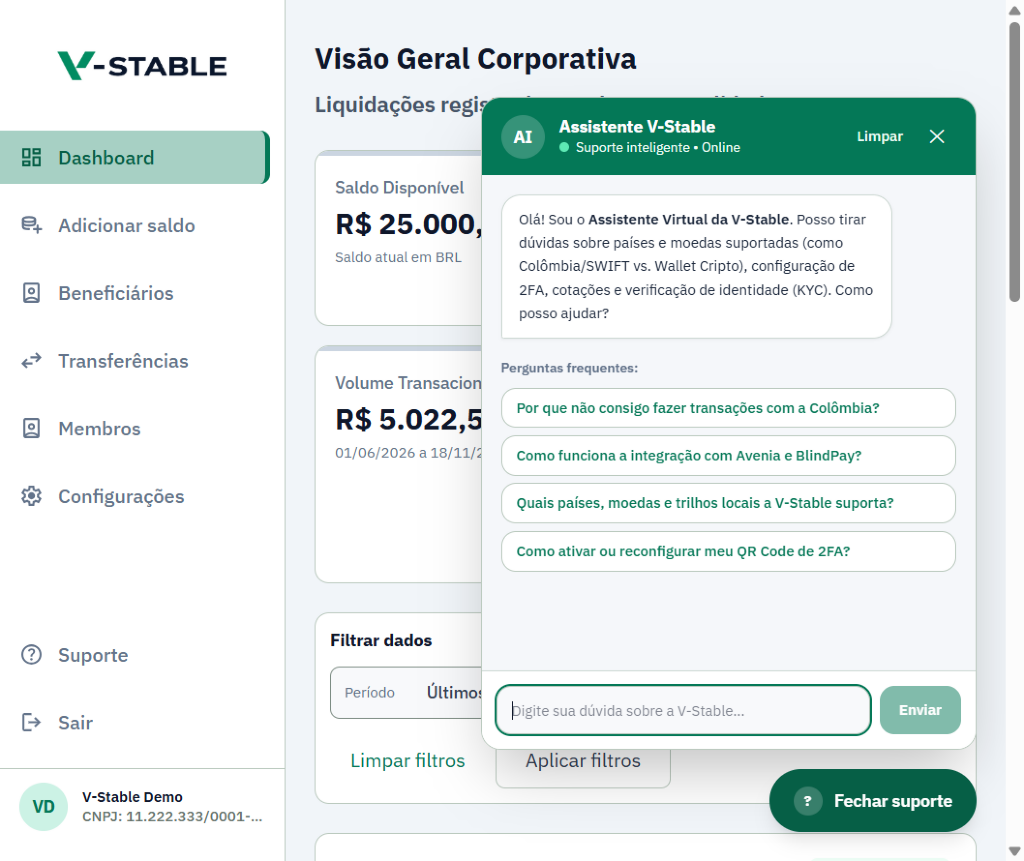
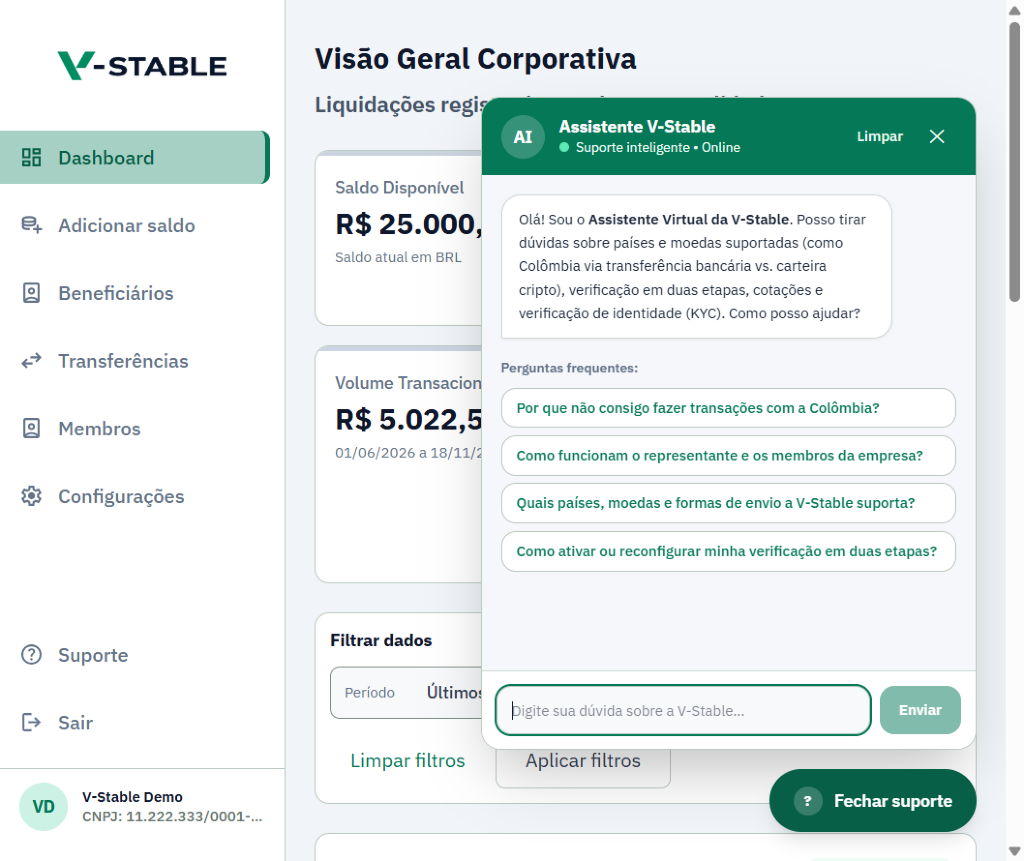
docs(chatbot): abstract user roles and update chatbot screenshots

diff --git a/platform/SUPPORT_CHATBOT.md b/platform/SUPPORT_CHATBOT.md
@@ -1,6 +1,6 @@
 # Assistente Virtual de Suporte (Chatbot IA)
 
-Este documento descreve a arquitetura, o escopo funcional, os limites operacionais, os guardrails de segurança e usabilidade (Heurísticas de Nielsen) e a estratégia de resiliência com e sem API externa do **Assistente Virtual de Suporte da V-Stable**.
+Este documento descreve a arquitetura interna, o escopo funcional voltado ao usuário final, os limites explícitos, os guardrails de segurança, privacidade e abstração, as Heurísticas de Nielsen aplicadas no frontend e a estratégia de resiliência com e sem API externa do **Assistente Virtual de Suporte da V-Stable**.
 
 ---
 
@@ -15,8 +15,8 @@ SupportChatWidget (React)
               └─> SupportChatController
                     └─> SupportChatService
                           ├─ Rate limit deslizante (15 req/min -> HTTP 423 Locked)
-                          ├─ Contexto seguro Zero-PII (buildSafeUserContextSummary)
-                          └─ System prompt de domínio (buildSystemPrompt)
+                          ├─ Contexto seguro Zero-PII e perfis abstratos (buildSafeUserContextSummary)
+                          └─ System prompt com regra de abstração técnica (buildSystemPrompt)
                                 └─> SupportChatGateway (SupportChatClient)
                                       ├─ 1. Gemini (AI_SUPPORT_PROVIDER=gemini + fallback de modelos)
                                       ├─ 2. DeepSeek (AI_SUPPORT_PROVIDER=deepseek | auto com sk-)
@@ -27,10 +27,10 @@ SupportChatWidget (React)
 
 | Camada | Arquivo / Símbolo | Responsabilidade |
 |---|---|---|
-| **Frontend (UI)** | `SupportChatWidget` (`src/features/support/components/SupportChatWidget.tsx`) | Widget flutuante acessível (`Esc` fecha o painel), envio via formulário ou *chips* de perguntas frequentes, contagem preventiva de rate limit, timer regressivo ao lado do botão `Enviar`, botão `Limpar` com aborto de requisição pendente e renderização segura sem `dangerouslySetInnerHTML`. |
+| **Frontend (UI)** | `SupportChatWidget` (`src/features/support/components/SupportChatWidget.tsx`) | Widget flutuante acessível (`Esc` fecha o painel), boas-vindas e *chips* de perguntas frequentes em linguagem acessível, contagem preventiva de rate limit (`evaluateClientRateLimit`), timer regressivo ao lado do botão `Enviar`, botão `Limpar` com aborto de requisição pendente e renderização segura sem `dangerouslySetInnerHTML`. |
 | **Frontend (API)** | `sendSupportChatMessage` (`src/features/support/api/supportChat.ts`) | Chamada `POST /v1/support/chat` com timeout de `20.000 ms` via `AbortController`, mapeamento de `HTTP 423` para `SupportChatRateLimitError` com extração dos segundos restantes (`parseRetryAfterSeconds`) e tratamento de `HTTP 400`. |
 | **Controller** | `SupportChatController` (`POST /v1/support/chat`) | Exige `Authentication` válida (retorna `401 Unauthorized` quando ausente), valida `@Valid @RequestBody SupportChatRequestDTO` e delega ao serviço. |
-| **Service** | `SupportChatService` | Aplica janela deslizante de rate limit por usuário (`15` req/min), gera o resumo seguro de sessão (`buildSafeUserContextSummary`), injeta as regras de negócio e segurança (`buildSystemPrompt`) e retorna `SupportChatResponseDTO` com `reply`, `provider`, `suggestedQuestions` e `timestamp`. |
+| **Service** | `SupportChatService` | Aplica janela deslizante de rate limit por usuário (`15` req/min), gera o resumo seguro com rótulos abstratos (`buildSafeUserContextSummary` + `describeCompanyRole`), injeta regras de negócio e proibição de detalhes técnicos (`buildSystemPrompt`) e retorna `SupportChatResponseDTO` com `reply`, `provider`, `suggestedQuestions` e `timestamp`. |
 | **Gateway** | `SupportChatGateway` | Interface de desacoplamento com o registro `SupportChatGatewayResult(String reply, String provider)`. |
 | **Client & Config** | `SupportChatClient` e `SupportChatProperties` (`ai.support.*`) | Executa a cadeia de provedores (Gemini -> DeepSeek -> Assistente Local Determinístico `vstable-assistant`), normaliza alternância de turnos para o Gemini e aplica temperatura/teto de tokens conservadores. |
 
@@ -40,9 +40,9 @@ SupportChatWidget (React)
   - `message` (`String`, obrigatório, `@NotBlank`, `@Size(max = 500)`).
   - `history` (`List<SupportChatMessageDTO>`, opcional, `@Valid`, `@Size(max = 10)`), onde cada item exige `role` igual a `"user"` ou `"assistant"` (`@Pattern(regexp = "user|assistant")`) e `content` não vazio até `4000` caracteres (`@Size(max = 4000)`).
 - **Response (`SupportChatResponseDTO`):**
-  - `reply`: texto em Markdown simples retornado pelo provedor ativo.
+  - `reply`: texto em Markdown simples retornado pelo provedor ativo, em linguagem de negócio acessível.
   - `provider`: identificador do provedor que respondeu (`"gemini"`, `"deepseek"` ou `"vstable-assistant"`).
-  - `suggestedQuestions`: lista padrão de perguntas frequentes (`DEFAULT_SUGGESTIONS`).
+  - `suggestedQuestions`: lista padrão de perguntas frequentes em linguagem não técnica (`DEFAULT_SUGGESTIONS`).
   - `timestamp`: instante da resposta (`OffsetDateTime`).
 - **Códigos HTTP:** `200 OK`, `400 Bad Request` (`VALIDATION_ERROR`), `401 Unauthorized` e `423 Locked` (`ACCOUNT_LOCKED`, por excesso de requisições no rate limit).
 
@@ -50,48 +50,51 @@ SupportChatWidget (React)
 
 ## 2. O que o Chatbot é Capaz de Fazer (Escopo Funcional)
 
-O chatbot orienta usuários e administradores sobre os seguintes fluxos reais da plataforma V-Stable:
+O chatbot orienta usuários e administradores em linguagem de negócio acessível — sem expor termos técnicos internos — sobre os seguintes fluxos da plataforma V-Stable:
 
-1. **Arquitetura multi-provedor e orquestração da melhor cotação:**
-   - Explica a integração institucional entre **Avenia** (*on-ramp* via PIX em BRL, emissão/trânsito em stablecoins e liquidação *on-chain*/SWIFT) e **BlindPay** (*off-ramp* bancário em moeda local via parceiros como JPMorgan, Citi e Bitso).
-   - Detalha o funcionamento do `QuoteOrchestratorService`, que consulta provedores elegíveis em paralelo (com timeout configurável via `quotes.provider-timeout`, padrão `10s`) para entregar a **Melhor Cotação** (*Best Quote*), exibindo taxas de rede, *spread* e IOF com trava de preço.
+1. **Estrutura multi-provedor e busca pela Melhor Cotação:**
+   - Explica que a V-Stable opera com **provedores parceiros regulados de liquidez e pagamento**.
+   - Detalha que a plataforma realiza busca automática pela **Melhor Cotação** em tempo real entre múltiplos provedores, exibindo taxas, *spread* e IOF com total transparência e trava garantida de preço.
 
 2. **Países, moedas e trilhos bancários suportados:**
    - **Estados Unidos (`USD`):** trilhos `ACH` (1 a 2 dias úteis), `Wire` (mesmo dia), `RTP` (*Real-Time Payments* em minutos) e `FedNow`.
    - **União Europeia / Zona do Euro (`EUR`):** `SEPA` e `SEPA Instant`.
    - **Reino Unido (`GBP`):** `Faster Payments` e `BACS`.
-   - **México (`MXN`):** trilho local `SPEI` (instantâneo via integração Bitso, com chave CLABE).
-   - **Argentina (`ARS`):** transferências locais via `CVU`, `CBU` ou `ALIAS` (via Bitso).
+   - **México (`MXN`):** trilho local `SPEI` (instantâneo, utilizando a chave CLABE).
+   - **Argentina (`ARS`):** transferências bancárias locais via `CVU`, `CBU` ou `ALIAS`.
    - **Brasil (`BRL`):** depósitos e retiradas via `PIX`.
-   - **Grade Global SWIFT (16 moedas homologadas em `BeneficiaryValidator.SWIFT_CURRENCIES`):** `USD`, `EUR`, `GBP`, `CAD`, `AUD`, `CHF`, `JPY`, `CNY`, `HKD`, `SGD`, `NZD`, `THB`, `PHP`, `INR`, `KRW` e `IDR`.
+   - **Grade Global SWIFT (16+ moedas internacionais):** `USD`, `EUR`, `GBP`, `CAD`, `AUD`, `CHF`, `JPY`, `CNY`, `HKD`, `SGD`, `NZD`, `THB`, `PHP`, `INR`, `KRW` e `IDR`.
 
 3. **Regra de bloqueio do peso colombiano (`COP`) e alternativas recomendadas:**
-   - Esclarece que transferências bancárias diretas em `COP` estão indisponíveis porque: (a) o trilho `ACH COP` (Bitso/BlindPay) encontra-se em fase final de homologação técnica e regulatória; (b) `COP` não faz parte da grade de 16 moedas SWIFT validada em `BeneficiaryValidator`; e (c) políticas preventivas de PLD-FT/GAFI bloqueiam corredores sem liquidação automatizada homologada.
+   - Esclarece que transferências bancárias diretas em `COP` estão indisponíveis no momento porque: (a) o recebimento bancário local em pesos colombianos ainda está em processo de liberação técnica e regulatória; (b) `COP` não faz parte da grade cambial direta de 16 moedas atendida pelo trilho SWIFT da V-Stable; e (c) políticas preventivas de PLD-FT/GAFI bloqueiam corredores sem liquidação automatizada liberada.
    - Orienta as duas alternativas disponíveis:
-     - **Opção 1 — `Wallet Cripto` (recomendada):** cadastrar o beneficiário na modalidade de carteira Web3 em redes suportadas para receber `USDC` ou `USDT`.
+     - **Opção 1 — `Wallet Cripto` (recomendada):** cadastrar o beneficiário na modalidade de carteira digital em redes suportadas para receber `USDC` ou `USDT`.
      - **Opção 2 — Conta Internacional em `USD` ou `EUR`:** cadastrar o beneficiário recebendo em `USD` (`ACH`/`Wire`/`SWIFT`) ou `EUR` (`SEPA`/`SWIFT`).
 
 4. **Redes blockchain e stablecoins:**
    - **Stablecoins:** `USDC`, `USDT`, `BRLA` e `EURC`.
-   - **Redes blockchain:** `Polygon`, `Celo`, `Ethereum`, `Base`, `Tron`, `Gnosis` e `Moonbeam` (observando que o enum `BlockchainNetwork` no cadastro de carteiras cobre `ethereum`, `polygon`, `celo`, `gnosis`, `moonbeam` e `tron`, enquanto a arquitetura Avenia contempla também `Base`).
+   - **Redes blockchain:** `Polygon`, `Celo`, `Ethereum`, `Base`, `Tron`, `Gnosis` e `Moonbeam`.
 
 5. **Autenticação em Dois Fatores (`2FA / TOTP`):**
-   - Explica a obrigatoriedade do 2FA no login, na ativação de conta e no Passo 3 (*Autenticação*) de transferências.
-   - Orienta a troca de aparelho / novo QR Code em **Configurações > Segurança da Conta**, informando a exigência do código TOTP atual de 6 dígitos (que revoga imediatamente o segredo anterior) e a necessidade de remover o registro antigo no aplicativo autenticador.
-   - Informa o bloqueio temporário de **15 minutos** após **5 tentativas incorretas** (`TwoFactorAuthService`: `MAX_FAILED_ATTEMPTS = 5`, `LOCKOUT_SECONDS = 15 * 60`) e a proteção **anti-replay atômica em PostgreSQL** na tabela `totp_used_steps` (`TotpReplayStore`), que garante uso único por janela de **90 segundos** (passo atual de 30s com tolerância de `±1` passo em `TotpService`) compartilhado entre instâncias Lambda.
+   - Explica a obrigatoriedade do 2FA no login, na ativação de conta e no Passo 3 (*Autenticação*) ao criar transferências.
+   - Orienta a troca de aparelho / novo QR Code em **Configurações > Segurança da Conta**, informando a exigência do código atual de 6 dígitos (que revoga imediatamente o segredo anterior) e a necessidade de remover o registro antigo no aplicativo autenticador.
+   - Informa que cada código de 6 dígitos é de **uso único dentro da sua janela de validade** (não podendo ser reutilizado) e que há bloqueio temporário de **15 minutos** após **5 tentativas incorretas** contra ataques de força bruta.
 
-6. **Onboarding, Termos de Serviço (`ToS`) da BlindPay e KYC Individual / *Liveness*:**
-   - Orienta as etapas de onboarding (cadastro da empresa, representante legal, ativação de 2FA, aceite dos Termos de Serviço `ToS` da BlindPay e envio de documento de identidade + prova de vida *Liveness*), esclarecendo que a situação do cadastro depende do KYC individual e não há exigência local de KYB ou AML da empresa.
-   - Documenta o limite de upload de **3 MB por arquivo** (`spring.servlet.multipart.max-file-size: 3MB` / `BlindPayIndividualKycService.MAX_FILE_BYTES = 3 * 1024 * 1024`) e a possibilidade de **reiniciar/reabrir o KYC** individual quando necessário (`POST /v1/blindpay/kyc/restart`).
+6. **Termos do provedor de pagamento, verificação de identidade (`KYC`) e reabertura:**
+   - Orienta as etapas de cadastro (empresa com CNPJ, representante legal, ativação de 2FA, aceite dos **termos do provedor de pagamento** e Termos de Uso vigentes, além do envio de documento de identidade e prova de vida *Liveness*), esclarecendo que a situação do cadastro depende da verificação individual (sem exigência local de KYB ou AML da empresa).
+   - Informa o limite de envio de **até 3 MB por arquivo** e a possibilidade de **reiniciar/refazer o processo de verificação** quando necessário.
 
-7. **Gestão de membros da empresa, papéis, convites e revogação:**
-   - Explica os três papéis de `CompanyRole`: `OWNER` (gestão completa de membros, convites, alteração de papéis, revogação e operações financeiras), `OPERATOR` (operação de beneficiários, cotações e transferências) e `VIEWER` (somente visualização/leitura).
-   - Orienta o fluxo de convites por link criptografado com aceite obrigatório dos Termos de Uso e Política de Privacidade vigentes (`TERMS_VERSION`), alteração de papel e revogação imediata de vínculo (`MembershipStatus.REMOVED`).
+7. **Gestão de membros, perfis e convites da empresa:**
+   - Explica os perfis de acesso em linguagem orientada ao usuário final:
+     - **Representante:** gestão completa da conta da empresa, envio de convites para membros, alteração de permissões, revogação de acesso e operações financeiras.
+     - **Membro com permissão para operar:** realiza cotações, transferências e gerencia beneficiários.
+     - **Membro com acesso apenas de visualização:** consulta e acompanha informações, sem permissão para operar.
+   - Orienta o fluxo de convites por **link seguro** com aceite obrigatório dos Termos de Uso e Política de Privacidade vigentes, alteração de permissões e revogação imediata de acesso pelo Representante.
 
-8. **Saldo empresarial, créditos simulados, dashboard, comprovante em PDF e conciliação:**
-   - Explica o uso do saldo empresarial em BRL (`companies.available_balance_brl`) para liquidação de transferências e o suporte, em ambientes habilitados (`balance.simulated-deposits.enabled=true`), a créditos simulados protegidos por `Idempotency-Key` (8 a 128 caracteres) com emissão de recibo (`mock_topup_receipts`).
-   - Explica as cotações de referência exibidas no dashboard (`BRL -> USDC` e `BRL -> USDT`, rota `PIX -> POLYGON`, usando `basePrice` sem tarifas, com cache de **2 horas** de TTL em `exchange_rate_snapshots`) e o cálculo de economia estimada (`SavingsEstimator`) frente ao **spread bancário de referência de 4%** (`dashboard.savings.reference-spread-percentage: 4.00`).
-   - Orienta sobre a emissão de **comprovante em PDF** (`TransferReceiptPdfGenerator`) e sobre a rotina de **conciliação automática em segundo plano** (`AveniaTransactionReconciler` consultando tickets pendentes e `TransferExecutionReconciler` retomando execuções BlindPay paradas com idempotência).
+8. **Saldo empresarial em BRL, dashboard, economia estimada e comprovante em PDF:**
+   - Explica o uso do saldo empresarial em BRL para liquidação das transferências da empresa (e, quando habilitado em ambiente de testes/simulação, a possibilidade de adicionar saldo simulado com emissão de recibo).
+   - Explica as cotações de referência exibidas no dashboard (`BRL -> USDC` e `BRL -> USDT`, rota `PIX -> Polygon`, sem tarifas embutidas e com atualização periódica), os filtros de histórico/status e o cálculo de **economia estimada** frente ao **spread bancário de referência de 4%**.
+   - Orienta sobre o download de **comprovante em PDF** das transferências concluídas e o **acompanhamento e atualização automática do status das transferências** até a conclusão.
 
 ---
 
@@ -99,26 +102,43 @@ O chatbot orienta usuários e administradores sobre os seguintes fluxos reais da
 
 Por projeto arquitetural e segurança operacional, o chatbot possui fronteiras estritas:
 
-- **Exclusivamente orientativo e somente leitura:** não cria, aprova, cancela ou executa transferências; não gera cotações operacionais em tempo real; não altera cadastros ou papéis; não gera QR Codes de 2FA; e não cria, regenera ou revoga convites ou vínculos empresariais.
-- **Sem acesso a dados financeiros ou sensíveis:** não consulta nem exibe saldos (`available_balance_brl`), extratos, histórico de transações, CPF, CNPJ, e-mails, senhas, hashes (`password_hash`/`password_salt`), segredos TOTP (`two_factor_secret`) ou tokens de convite (`token_ciphertext`/`token_hash`).
-- **Sem visibilidade entre empresas ou vínculos encerrados:** não acessa dados de outras empresas e não expõe dados empresariais para usuários sem vínculo ou com vínculo `REMOVED` (mesmo quando `companyId` legado ainda exista na entidade do usuário).
+- **Exclusivamente orientativo e somente leitura:** não cria, aprova, cancela ou executa transferências; não gera cotações operacionais em tempo real; não altera cadastros ou permissões; não gera QR Codes de 2FA; e não cria, regenera ou revoga convites ou vínculos empresariais.
+- **Sem acesso a dados financeiros ou sensíveis:** não consulta nem exibe saldos em BRL, extratos, histórico de transações, CPF, CNPJ, e-mails, senhas, hashes, segredos de 2FA ou tokens de convite.
+- **Sem visibilidade entre empresas ou vínculos encerrados:** não acessa dados de outras empresas e não expõe dados empresariais para usuários sem vínculo ou com vínculo encerrado.
+- **Sem exposição de detalhes técnicos internos da aplicação:** não revela nomes internos de perfis de sistema, nomes internos de provedores parceiros ou integrações, classes ou funções de código, variáveis de ambiente ou configuração, cabeçalhos/rotas HTTP, estrutura de banco de dados, mecanismos internos de cache/expiração, controle de concorrência ou chaves de idempotência.
 - **Recusa de uso indevido:** recusa pedidos fora do domínio V-Stable, solicitações de execução de código ou comandos, pedidos de dados de terceiros e tentativas de *prompt injection* para ignorar instruções do sistema.
 
 ---
 
 ## 4. Guardrails de Segurança, Privacidade e Usabilidade (Heurísticas de Nielsen)
 
-### 4.1 Isolamento Multi-Tenant e Zero-PII (`buildSafeUserContextSummary`)
+### 4.1 Isolamento Multi-Tenant, Zero-PII e Abstração de Linguagem
 
-Antes de chamar qualquer provedor externo ou o assistente local, `SupportChatService.buildSafeUserContextSummary` constrói um resumo mínimo de sessão com **Zero-PII**:
+Antes de chamar qualquer provedor externo ou o assistente local, `SupportChatService` aplica três camadas de proteção sobre o contexto e o discurso gerado:
 
-- **Para `UserEntity`:**
-  - Resolve a empresa exclusivamente via `activeMembershipCompanyId(user)`, que exige `user.getMembership() != null` e `membership.getStatus() == MembershipStatus.ACTIVE`.
-  - Vínculos `REMOVED`, ausência de vínculo ou o campo legado `user.getCompanyId()` são ignorados e resultam na não consulta ao `CompanyRepository`, enviando apenas: `**Status atual da sua conta:** 2FA = Ativo|Pendente de ativação | Empresa ainda não vinculada.`
-  - Com vínculo `ACTIVE` e empresa localizada, envia somente o nome fantasia (`tradeName`) ou razão social (`legalName`), o papel (`Papel = OWNER|OPERATOR|VIEWER`) e o booleano do 2FA (`2FA = Ativo|Pendente de ativação`).
-- **Para `AdministratorEntity`:**
-  - Envia apenas `**Status da sua sessão (Administrador):** 2FA = Ativo|Inativo.`
-- **Dados nunca enviados ao prompt ou provedores de IA:** nome completo, e-mail, CPF, CNPJ, telefone, endereço, UUIDs internos (`userId`, `companyId`, `membershipId`), saldo `available_balance_brl`, hashes/salts de senha, segredos TOTP e tokens de convite.
+1. **Isolamento Multi-Tenant e Zero-PII (`buildSafeUserContextSummary`):**
+   - Para `UserEntity`, resolve a empresa exclusivamente via `activeMembershipCompanyId(user)`, que exige `user.getMembership() != null` e `membership.getStatus() == MembershipStatus.ACTIVE`.
+   - Vínculos `REMOVED`, ausência de vínculo ou o campo legado `user.getCompanyId()` são ignorados e não consultam o `CompanyRepository`, enviando apenas: `**Status atual da sua conta:** 2FA = Ativo|Pendente de ativação | Empresa ainda não vinculada.`
+   - Com vínculo `ACTIVE` e empresa localizada, envia somente o nome fantasia (`tradeName`) ou razão social (`legalName`), o rótulo abstrato de perfil e o booleano do 2FA (`2FA = Ativo|Pendente de ativação`).
+   - Para `AdministratorEntity`, envia apenas `**Status da sua sessão (Administrador):** 2FA = Ativo|Inativo.`
+   - **Dados nunca enviados ao prompt ou provedores de IA:** nome completo, e-mail, CPF, CNPJ, telefone, endereço, UUIDs internos (`userId`, `companyId`, `membershipId`), saldo financeiro, hashes/salts de senha, segredos TOTP e tokens de convite.
+
+2. **Mapeamento Abstrato de Perfis de Acesso (`describeCompanyRole`):**
+   - O resumo de contexto enviado à IA mapeia os perfis internos de acesso (`CompanyRole`) para rótulos abstratos voltados ao usuário final, **nunca expondo identificadores internos de roles (`OWNER`, `OPERATOR`, `VIEWER`)**:
+
+| Role Interna (`CompanyRole`) | Rótulo Abstrato Enviado à IA e Exibido ao Usuário |
+|---|---|
+| `OWNER` | `Representante` |
+| `OPERATOR` | `Membro com permissão para operar` |
+| `VIEWER` | `Membro com acesso apenas de visualização` |
+| `null` (fallback) | `Membro` |
+
+   - Exemplo de contexto gerado: `**Status atual da sua conta (V-Stable Demo):** Perfil = Representante | 2FA = Ativo.`
+
+3. **Proibição Explícita de Termos Técnicos Internos (Prompt + Fallback Offline):**
+   - A Regra 5 de `SupportChatService.buildSystemPrompt` e as respostas embarcadas de `SupportChatClient.generateBuiltInKnowledgeReply` proíbem explicitamente citar termos técnicos internos da aplicação: classes ou funções de código, chaves e variáveis internas, cabeçalhos HTTP, rotas de API, nomes de tabelas, parâmetros de cache/TTL, preços internos de referência, janelas técnicas de expiração, controle de concorrência, nomes internos de provedores/integrações ou identificadores internos de perfis.
+   - O assistente responde sempre em **linguagem de negócio acessível** (ex.: `"Representante"`, `"membros que podem operar"`, `"membros que podem apenas visualizar"` e `"provedores parceiros regulados de liquidez e pagamento"`).
+   - Esse contrato de abstração é validado continuamente por testes automatizados no backend (`assertNoForbiddenTechnicalTerms` em `SupportChatServiceTest` e `SupportChatClientTest`) e pelas sugestões iniciais e mensagem de boas-vindas no frontend (`SupportChatWidget.tsx`).
 
 ### 4.2 Validação de Entrada e Controles de Geração
 
@@ -143,7 +163,7 @@ O helper `renderFormattedText` em `SupportChatWidget.tsx` **não usa `dangerousl
      - Exibe um **timer regressivo** (`data-testid="support-chat-cooldown-timer"`, `role="timer"`, `aria-live="polite"`) mostrando `{cooldownSeconds}s` diretamente ao lado do botão `Enviar` durante todo o período de espera.
      - Exibe também o indicador de processamento `"Analisando sua dúvida..."` (`role="status"`) durante chamadas ativas e o status `"Suporte inteligente • Online"` no cabeçalho.
   2. **Heurística #5 — Prevenção de erros:**
-     - O widget mantém contagem preventiva local (`sentTimestampsRef`) com os mesmos `15` envios em janela deslizante de `60.000 ms` (`SUPPORT_CHAT_MAX_REQUESTS_PER_MINUTE = 15`, `SUPPORT_CHAT_RATE_LIMIT_WINDOW_MS = 60_000`), ativando o cooldown preventivamente antes de disparar requisição excedente ao servidor.
+     - O widget executa `evaluateClientRateLimit` sobre `sentTimestampsRef` com os mesmos `15` envios em janela deslizante de `60.000 ms` (`SUPPORT_CHAT_MAX_REQUESTS_PER_MINUTE = 15`, `SUPPORT_CHAT_RATE_LIMIT_WINDOW_MS = 60_000`), ativando o cooldown preventivamente antes de disparar requisição excedente ao servidor.
      - Enquanto `cooldownSeconds > 0`, desabilita o botão `Enviar` (`disabled={loading || cooldownSeconds > 0 || !input.trim()}`) e os botões de perguntas frequentes (`disabled={cooldownSeconds > 0}`), impedindo novos envios até o término da contagem.
   3. **Heurística #9 — Ajudar usuários a reconhecer, diagnosticar e recuperar-se de erros:**
      - Quando uma resposta `HTTP 423` chega do backend, `parseRetryAfterSeconds` extrai a quantidade de segundos da mensagem (ou usa `error.retryAfterSeconds` / fallback de `60s`) e lança `SupportChatRateLimitError`.
@@ -162,7 +182,7 @@ O `SupportChatClient` implementa uma cadeia de resiliência em 3 níveis que imp
 |---|---|---|---|
 | **1. Primário** | `gemini` | `AI_SUPPORT_API_KEY` preenchida e `AI_SUPPORT_PROVIDER` igual a `gemini` (padrão) ou `auto` (quando a chave não inicia com `sk-`). | `POST {geminiBaseUrl}/v1beta/models/{model}:generateContent` com header `x-goog-api-key`. Tenta o modelo configurado em `AI_SUPPORT_GEMINI_MODEL` (padrão `gemini-flash-lite-latest`) e aplica fallback sequencial entre `gemini-flash-lite-latest`, `gemini-flash-latest`, `gemini-3.5-flash-lite` e `gemini-3.5-flash` em respostas `404`, `429`, `503`, respostas vazias ou falhas de rede (`RestClientException`). |
 | **2. Alternativo** | `deepseek` | `AI_SUPPORT_API_KEY` preenchida e `AI_SUPPORT_PROVIDER=deepseek` ou `AI_SUPPORT_PROVIDER=auto` com chave iniciando em `sk-`. | `POST {deepseekBaseUrl}/v1/chat/completions` com `Authorization: Bearer {apiKey}` e modelo `AI_SUPPORT_DEEPSEEK_MODEL` (padrão `deepseek-chat`). |
-| **3. Offline / Determinístico** | `vstable-assistant` | `AI_SUPPORT_API_KEY` vazia/ausente, `AI_SUPPORT_PROVIDER=local` ou falha/esgotamento de todos os modelos dos provedores externos. | `SupportChatClient.generateBuiltInKnowledgeReply(userMessage, userContextSummary)`: classifica palavras-chave normalizadas sem acentuação e retorna respostas determinísticas embarcadas sobre Avenia/BlindPay, países/moedas/trilhos, bloqueio `COP`, redes/stablecoins, 2FA/anti-replay, KYC/ToS/reabertura, cotações/saldo/PDF/conciliação, membros/convites e dashboard/economia estimada, anexando o mesmo contexto seguro da sessão. |
+| **3. Offline / Determinístico** | `vstable-assistant` | `AI_SUPPORT_API_KEY` vazia/ausente, `AI_SUPPORT_PROVIDER=local` ou falha/esgotamento de todos os modelos dos provedores externos. | `SupportChatClient.generateBuiltInKnowledgeReply(userMessage, userContextSummary)`: classifica palavras-chave normalizadas sem acentuação e retorna respostas determinísticas embarcadas em linguagem de negócio acessível (sem expor termos técnicos ou nomes internos de provedores/roles) sobre liquidez multi-provedor, países/moedas/trilhos, bloqueio `COP`, redes/stablecoins, 2FA, KYC/termos do provedor/reabertura, cotações/saldo BRL/PDF/acompanhamento, Representante/membros/convites e dashboard/economia estimada, anexando o mesmo contexto seguro da sessão. |
 
 ### Variáveis de Ambiente (`SupportChatProperties` / `application.yaml`)
 
@@ -183,20 +203,20 @@ Capturas realizadas com o ambiente local atualizado (backend + frontend rodando 
 
 <div align="center">
 
-  <img alt="Chatbot aberto no Dashboard com boas-vindas e sugestões rápidas" src="../assets/chatbot/chatbot-01-aberto-dashboard.png" />
+  <img alt="Chatbot aberto no Dashboard com boas-vindas e sugestões rápidas em linguagem acessível" src="../assets/chatbot/chatbot-01-aberto-dashboard.png" />
 
   <br/>
-  <em>1. Widget aberto no Dashboard exibindo mensagem de boas-vindas e perguntas frequentes (chips de acesso rápido)</em>
+  <em>1. Widget aberto no Dashboard exibindo mensagem de boas-vindas e sugestões rápidas voltadas ao usuário final (Representante, membros, países e verificação em duas etapas)</em>
 </div>
 
 <br/>
 
 <div align="center">
 
-  <img alt="Resposta do chatbot com novo contexto de membros, convites e economia estimada" src="../assets/chatbot/chatbot-02-resposta-novas-features.png" />
+  <img alt="Resposta do chatbot em linguagem abstrata sobre Representante, membros, convites e economia estimada" src="../assets/chatbot/chatbot-02-resposta-novas-features.png" />
 
   <br/>
-  <em>2. Chatbot respondendo via provedor externo (Gemini) com o novo contexto sobre papéis empresariais (OWNER/OPERATOR/VIEWER), convites e economia estimada</em>
+  <em>2. Chatbot respondendo via provedor externo (Gemini) em linguagem abstrata sobre Representante, membros (permissão para operar e apenas visualização), convites e economia estimada, sem citar roles internas nem jargões técnicos</em>
 </div>
 
 <br/>
@@ -206,5 +226,5 @@ Capturas realizadas com o ambiente local atualizado (backend + frontend rodando 
   <img alt="Rate limit com alerta e timer regressivo ao lado do botão Enviar (Heurísticas de Nielsen)" src="../assets/chatbot/chatbot-03-rate-limit-timer.png" />
 
   <br/>
-  <em>3. Proteção de rate limit (15 req/min) exibindo alerta de erro recuperável, timer regressivo (19s) ao lado do botão Enviar desabilitado (Heurísticas de Nielsen #1, #5 e #9)</em>
+  <em>3. Proteção de rate limit (15 req/min) exibindo alerta de erro recuperável e timer regressivo ao lado do botão Enviar desabilitado (Heurísticas de Nielsen #1, #5 e #9)</em>
 </div>
